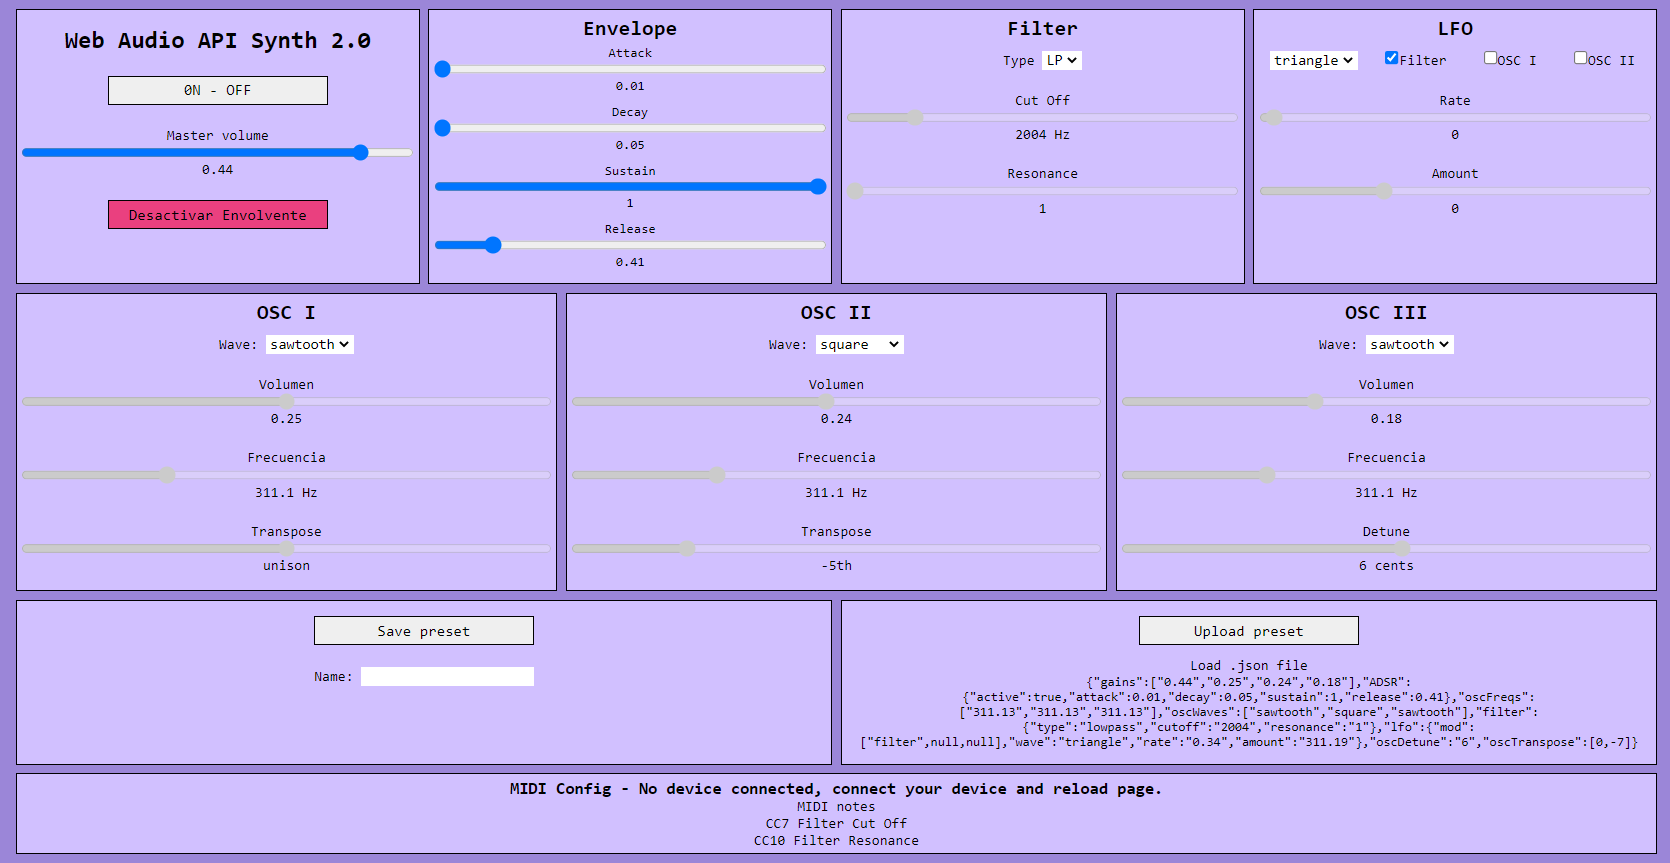
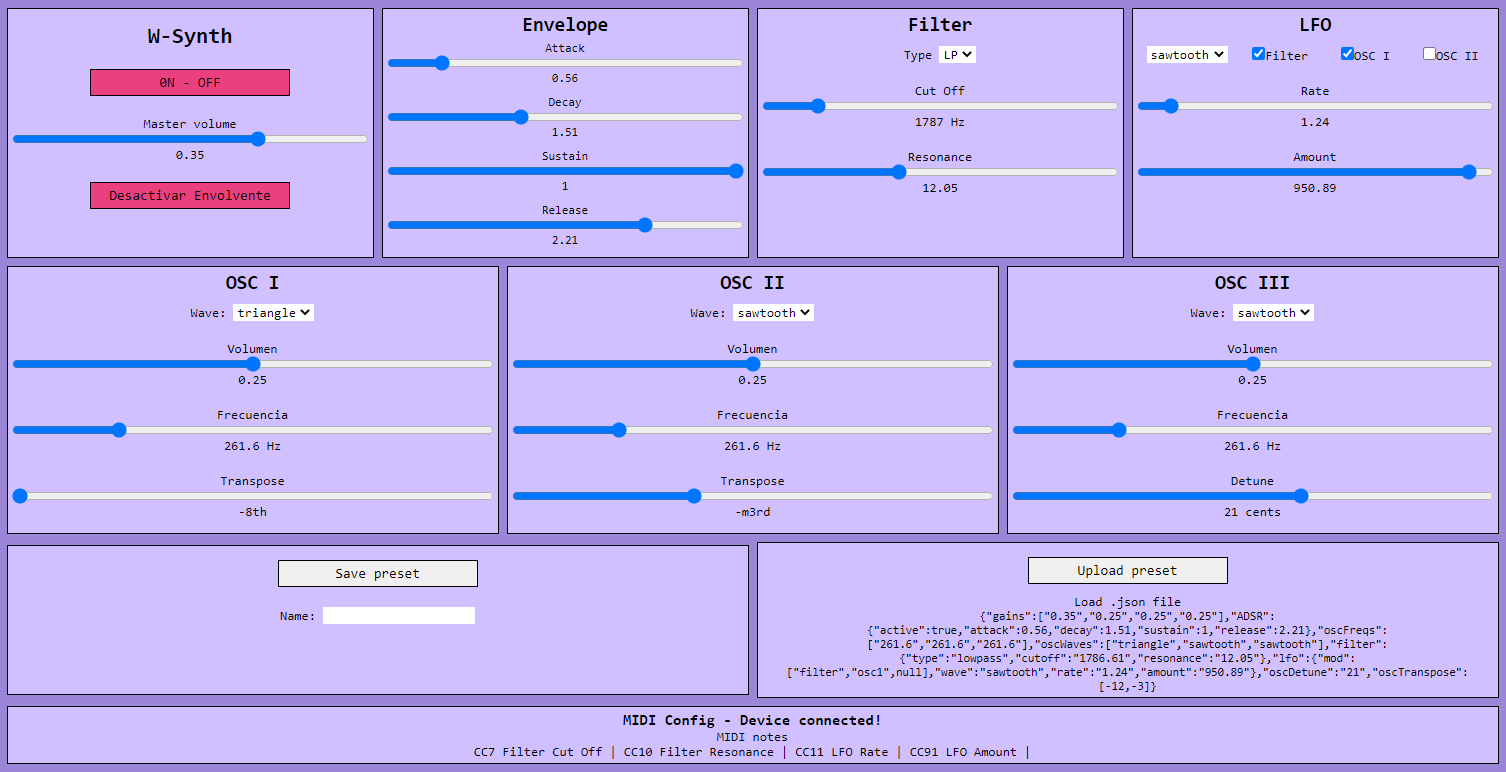
agregadas funcionalidades MIDI

Changed region(s): [[0.0, 0.0, 0.9987, 0.9948]]

diff --git a/js/keyboard.js b/js/keyboard.js
@@ -30,7 +30,7 @@ function onMIDIfailure () {
 
 function onMIDIMessage(message) {
     let frequency = midiNoteToFrequency(message.data[1]).toFixed(2);
-
+    
     if(synth.audioCtx) {
         if (message.data[0] === 144 && message.data[2] > 0) {
             playNote(frequency);
@@ -43,16 +43,30 @@ function onMIDIMessage(message) {
     }
 
     //midi to filter
-    let filterCut; //knob 1 cc7
-    let filterRes; //knob 2 cc10
+    //knob 1 cc7
+    //knob 2 cc10
 
-    if(filterCut !== 0 && message.data[1] === 7) {
-        filterCut = midiCCMap( message.data[2], 100, 12000);
-        midiToFilterC(filterCut);
+    if(message.data[1] === 7) {
+        let midiInput = midiCCMap( message.data[2], 100, 12000);
+        midiToFilterC(midiInput);
     } 
+
     if (message.data[1] === 10 ){
-        filterRes = midiCCMap(message.data[2], 0, 30);
-        midiToFilterR(filterRes);
+        let midiInput = midiCCMap(message.data[2], 0, 30);
+        midiToFilterR(midiInput);
+    }
+
+    //midi to LFO
+    //knob 3 cc11
+    //knob 4 cc91
+    if (message.data[1] === 11 ){
+        let midiInput = midiCCMap(message.data[2], 0.1, 15);
+        midiToLFORate(midiInput);
+    }
+
+    if (message.data[1] === 91 ){
+        let midiInput = midiCCMap(message.data[2], 0.5, 1000);
+        midiToLFOAmt(midiInput);
     }
 
 }
@@ -69,7 +83,7 @@ function midiCCMap( cc, min, max ) {
 }
 
 function midiToFilterC(cut) {
-    if (synth.audioCtx && cut) {
+    if (synth.audioCtx) {
         filterC.value = cut;
         filterC.nextElementSibling.innerText = cut + ' Hz';
         synth.filter.frequency.exponentialRampToValueAtTime(cut, synth.audioCtx.currentTime + 0.2);
@@ -78,11 +92,29 @@ function midiToFilterC(cut) {
 }
 
 function midiToFilterR(res) {
-    if (synth.audioCtx && res) {
+    if (synth.audioCtx) {
         filterR.value = res;
         filterR.nextElementSibling.innerText = res;
         synth.filter.Q.value = res;
         audioParams.filter.resonance = res;
+    }
+}
+
+function midiToLFORate(rate) {
+    if (synth.audioCtx) {
+        lfoRate.value = rate;
+        synth.lfo.frequency.value = rate;
+        lfoRate.nextElementSibling.innerText = rate; 
+        audioParams.lfo.rate = rate;
+    }
+}
+
+function midiToLFOAmt(amt) {
+    if (synth.audioCtx) {
+        lfoAmt.value = amt;
+        synth.lfoGainNode.gain.value = amt;
+        lfoAmt.nextElementSibling.innerText = amt; 
+        audioParams.lfo.amount = amt;
     }
 }
 

diff --git a/index.html b/index.html
@@ -219,8 +219,10 @@
             <article id="midi">
                 <h3>MIDI Config - <span id="midi-info">No device connected</span></h3>
                 <p>MIDI notes<br>
-                   CC7 Filter Cut Off <br>
-                   CC10 Filter Resonance
+                   CC7 Filter Cut Off |
+                   CC10 Filter Resonance |
+                   CC11 LFO Rate |
+                   CC91 LFO Amount |
                 </p>
             </article>
         </section>

diff --git a/js/synth.js b/js/synth.js
@@ -267,6 +267,7 @@ function updateParams() {
     synth.lfoGainNode.gain.value         = LFOAmt;
     lfoAmt.nextElementSibling.innerText  = LFOAmt;
   }
+  
 }
 
 //Update LFO mod
